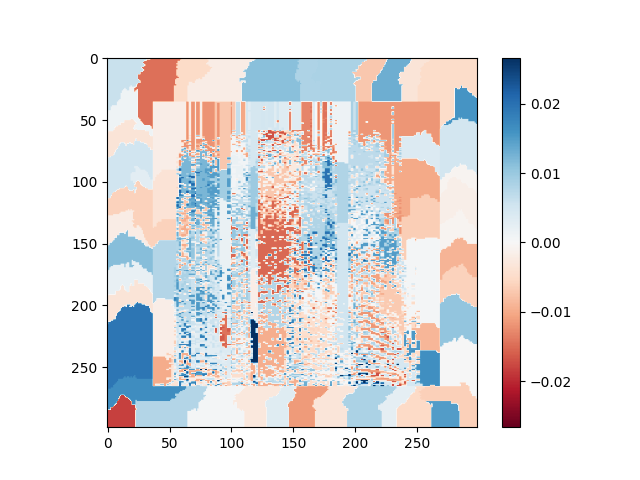
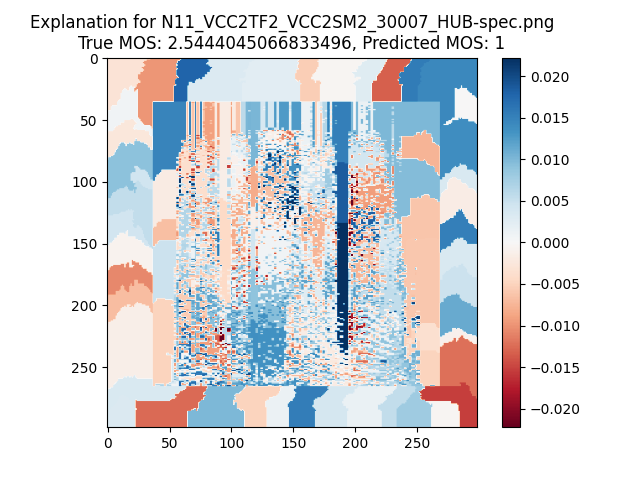
Clean up output a bit

diff --git a/mosnet_lime.py b/mosnet_lime.py
@@ -143,11 +143,13 @@ def explain_image(explainer, img_dir, model_obj):
     model_obj.set_instance(images)
     exp = explainer.explain_instance(im.astype('double'), model_obj.image_predict, hide_color=0, num_samples=10)
     print('Done')
-    save_expl_figs(exp)
+    true_mos = get_true_mos(images[0], model_obj)
+    save_expl_figs(exp, images[0].split('/')[-1], true_mos)
     
 
-def save_expl_figs(explanation):
+def save_expl_figs(explanation, im_file, true_mos):
     print('Saving explanations...', end='', flush=True)
+    
     #Select the same class explained on the figures above.
     ind =  explanation.top_labels[0]
 
@@ -158,8 +160,17 @@ def save_expl_figs(explanation):
     #Plot. The visualization makes more sense if a symmetrical colorbar is used.
     plt.imshow(heatmap, cmap = 'RdBu', vmin  = -heatmap.max(), vmax = heatmap.max())
     plt.colorbar()
+    plt.title(f'Explanation for {im_file}\nTrue MOS: {true_mos}, Predicted MOS: {ind}')
     plt.savefig(os.path.join(EXP_DIR, 'expl.png'))
     print('Done')
+
+
+def get_true_mos(im_path, model_obj):
+    filename = im_path.split('/')[-1].split('-')[0]
+    _feat = utils.read(os.path.join(BIN_DIR,filename+'.h5'))
+    _mag = _feat['mag_sgram']
+    [y_pred, _] = model_obj.model.predict(_mag, verbose=0, batch_size=1)
+    return y_pred[0][0]
 
 
 def generate_spec(file_list, num=10, start=0):
